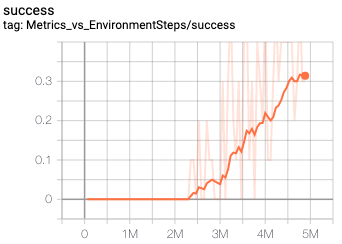
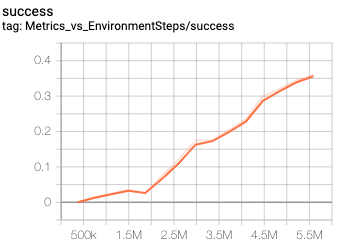
update fetchslide results

diff --git a/alf/environments/suite_robotics.py b/alf/environments/suite_robotics.py
@@ -76,7 +76,7 @@ class SuccessWrapper(gym.Wrapper):
         self._steps += 1
 
         info["success"] = 0.0
-        # each episode only record success once
+        # only count success at the episode end
         if self._steps == self._max_episode_steps and info["is_success"] == 1:
             info["success"] = 1.0
 

diff --git a/README.md b/README.md
@@ -82,7 +82,7 @@ python -m alf.bin.play --root_dir=LOG_DIR
   <img src="alf/examples/async_ppo_bullet_humanoid.png" width = "300" height ="200" alt="Humanoid-training-curve"/> <img src="alf/examples/async_ppo_bullet_humanoid.gif" width = "300" height ="200" alt="Humanoid-video"/>
 
 ### DDPG
-* [FetchSlide (sparse rewards)](alf/examples/ddpg_fetchslide.gin). Need to install the [MuJoCo](https://www.roboti.us/index.html) simulator first. This example reproduces the performance of vanilla DDPG reported in the OpenAI's Robotics environment [paper](https://arxiv.org/pdf/1802.09464.pdf). Our implementation doesn't use MPI, but obtains (evaluation) performance on par with the original implementation. (*The original MPI implementation has 19 workers, each worker sampling a minibatch of size 256 from its replay buffer for computing gradients. All the workers' gradients will be summed together for a centralized optimizer step. Our implementation simply samples a minibatch of size 5000 from a common replay buffer per optimizer step.*) The training took about 1.5 hours with 20 parallel environments on a single GPU.
+* [FetchSlide (sparse rewards)](alf/examples/ddpg_fetchslide.gin). Need to install the [MuJoCo](https://www.roboti.us/index.html) simulator first. This example reproduces the performance of vanilla DDPG reported in the OpenAI's Robotics environment [paper](https://arxiv.org/pdf/1802.09464.pdf). Our implementation doesn't use MPI, but obtains (evaluation) performance on par with the original implementation. (*The original MPI implementation has 19 workers, each worker containing 2 environments for rollout and sampling a minibatch of size 256 from its replay buffer for computing gradients. All the workers' gradients will be summed together for a centralized optimizer step. Our implementation simply samples a minibatch of size 5000 from a common replay buffer per optimizer step.*) The training took about 1 hour with 38 (19*2) parallel environments on a single GPU.
 
   <img src="alf/examples/ddpg_fetchslide.png" width="300" height="200" alt="ddpg-fetchslide-training-curve"/> <img src="alf/examples/ddpg_fetchslide.gif" width="300" height="200" alf="ddpg-fetchslide-video"/>
 
@@ -95,7 +95,8 @@ python -m alf.bin.play --root_dir=LOG_DIR
 
   <img src="alf/examples/sac_fetchreach.png" width="300" height="200" alt="sac-fetchreach-training-curve"/> <img src="alf/examples/sac_fetchreach.gif" width="300" height="200" alf="sac-fetchreach-video"/>
 
-* [FetchSlide (sparse rewards)](alf/examples/sac_fetchslide.gin). Need to install the [MuJoCo](https://www.roboti.us/index.html) simulator first. This is the same task with the DDPG example above, but with SAC as the learning algorithm. The training took about 1.5 hours with 20 parallel environments on a single GPU.
+* [FetchSlide (sparse rewards)](alf/examples/sac_fetchslide.gin). Need to install the [MuJoCo](https://www.roboti.us/index.html) simulator first. This is the same task with the DDPG example above, but with SAC as the learning algorithm.
+Also it has only 20 (instead of 38) parallel environments to improve sample efficiency. The training took about 2 hours with on a single GPU.
 
   <img src="alf/examples/sac_fetchslide.png" width="300" height="200" alt="sac-fetchslide-training-curve"/> <img src="alf/examples/sac_fetchslide.gif" width="300" height="200" alf="sac-fetchslide-video"/>
 
